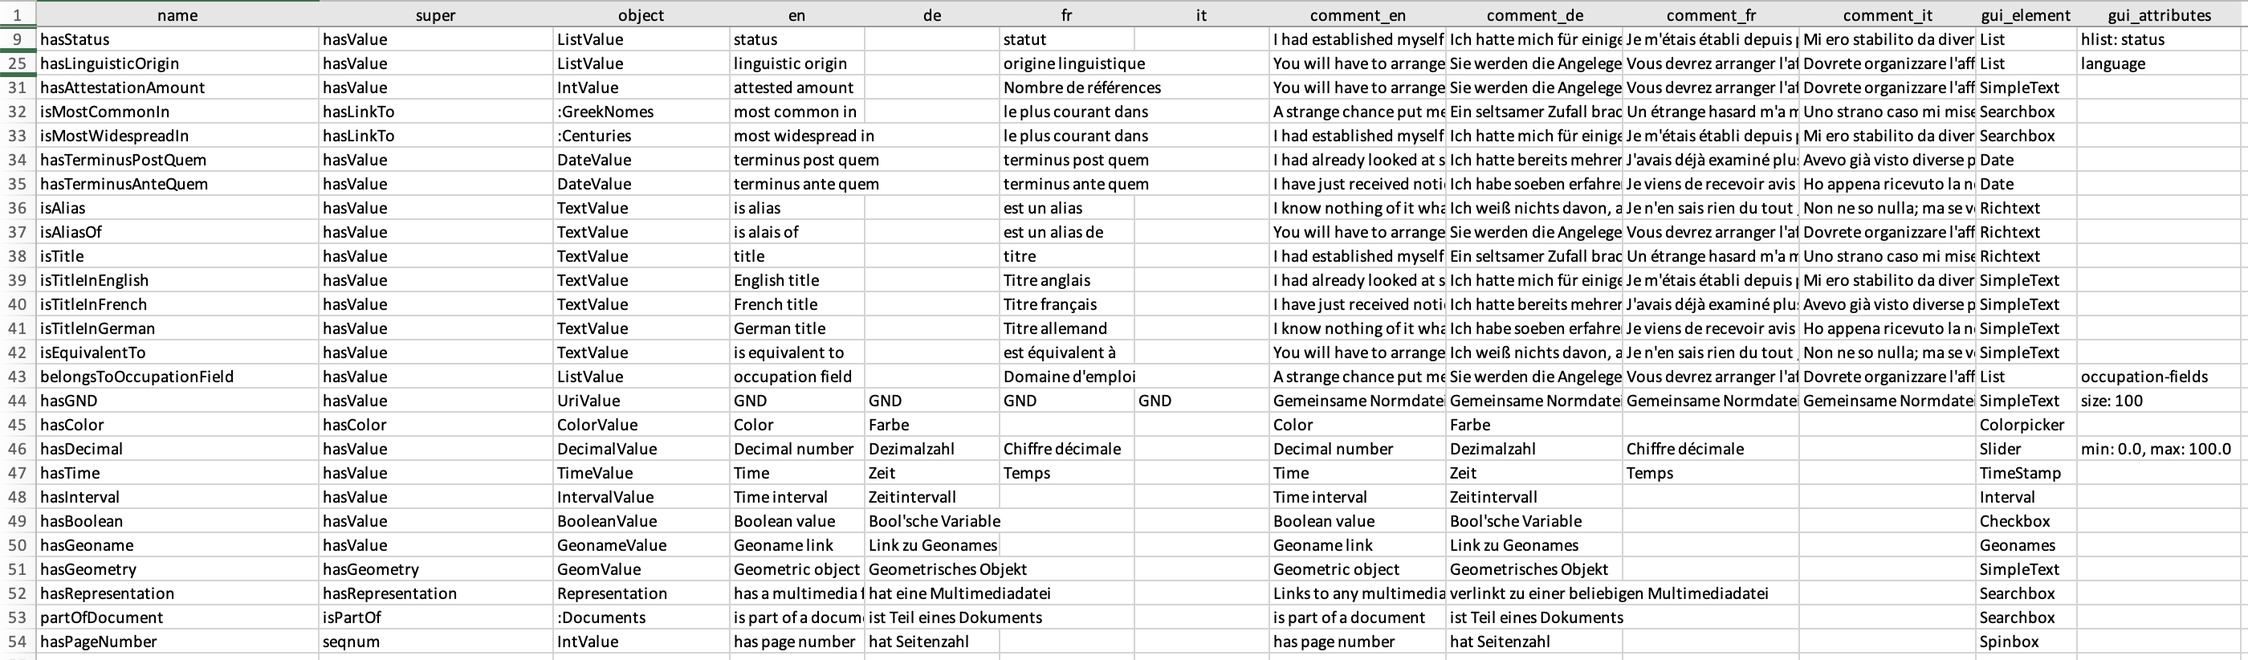
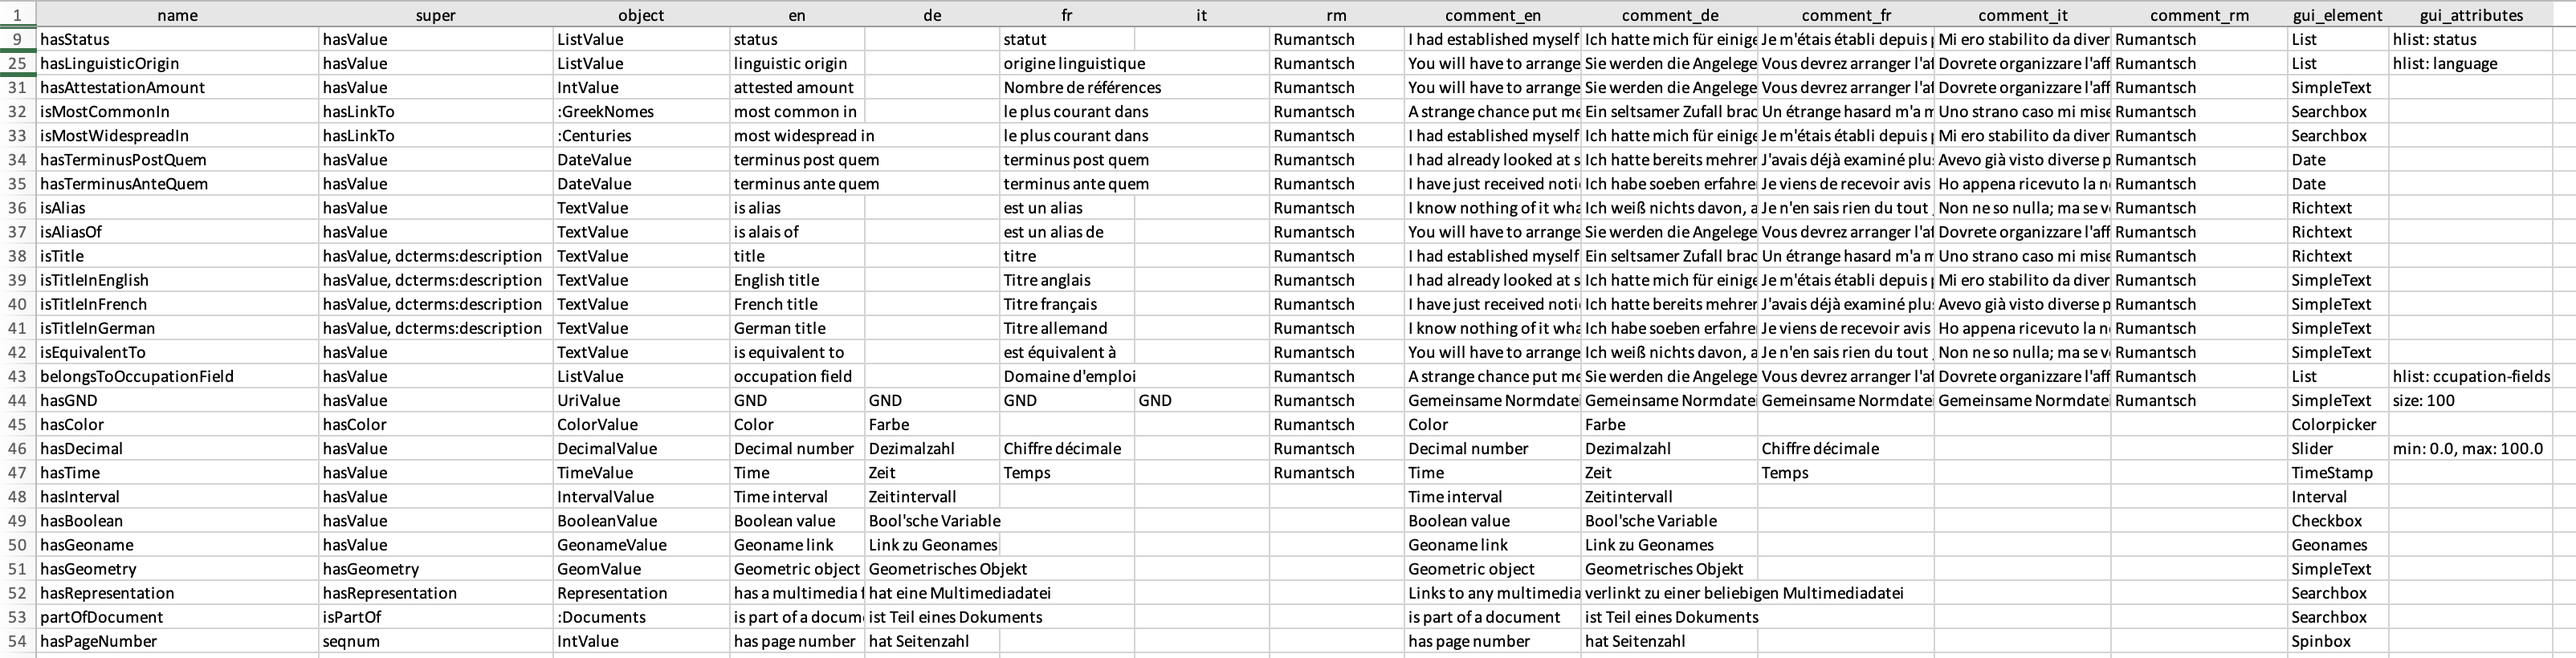
add Romansh to docs, testdata, and templates

diff --git a/docs/dsp-tools-excel.md b/docs/dsp-tools-excel.md
@@ -28,9 +28,9 @@ The worksheet called `classes` has the following structure:
 The expected columns are:
 
 - `name`: The name of the resource
-- `en`, `de`, `fr`, `it`: The labels of the resource in different languages, at least one language has to be provided
-- `comment_en`, `comment_de`, `comment_fr`, `comment_it`: optional comments in the respective language 
-- `super`: The base class of the resource
+- `en`, `de`, `fr`, `it`, `rm`: The labels of the resource in different languages, at least one language has to be provided
+- `comment_en`, `comment_de`, `comment_fr`, `comment_it`, `comment_rm`: optional comments in the respective language 
+- `super`: The base class(es) of the resource, separated by commas
 
 All other worksheets, one for each resource class, have the following structure:
 ![img-resources-example-2.png](assets/images/img-resources-example-2.png){ width=50% }
@@ -63,11 +63,10 @@ The expected columns are:
 - `object`: If the property is derived from `hasValue`, the type of the property must be further specified by the 
 object it takes, e.g. `TextValue`, `ListValue`, or `IntValue`. If the property is derived from `hasLinkTo`, 
 the `object` specifies the resource class that this property refers to.
-- `en`, `de`, `fr`, `it`: The labels of the property in different languages, at least one language has to be provided
-- `comment_en`, `comment_de`, `comment_fr`, `comment_it`: optional comments in the respective language 
+- `en`, `de`, `fr`, `it`, `rm`: The labels of the property in different languages, at least one language has to be provided
+- `comment_en`, `comment_de`, `comment_fr`, `comment_it`, `comment_rm`: optional comments in the respective language 
 - `gui_element`: The GUI element for the property
-- `gui_attributes` (optional): The gui_attributes in the form "attr: value, attr: value". In case of ListValues, the 
-  name of the list can be given as "hlist: listname" (according to the pattern), or simply as "listname".
+- `gui_attributes` (optional): The gui_attributes in the form "attr: value, attr: value". 
 
 For further information about properties, see [here](./dsp-tools-create-ontologies.md#properties).
 
